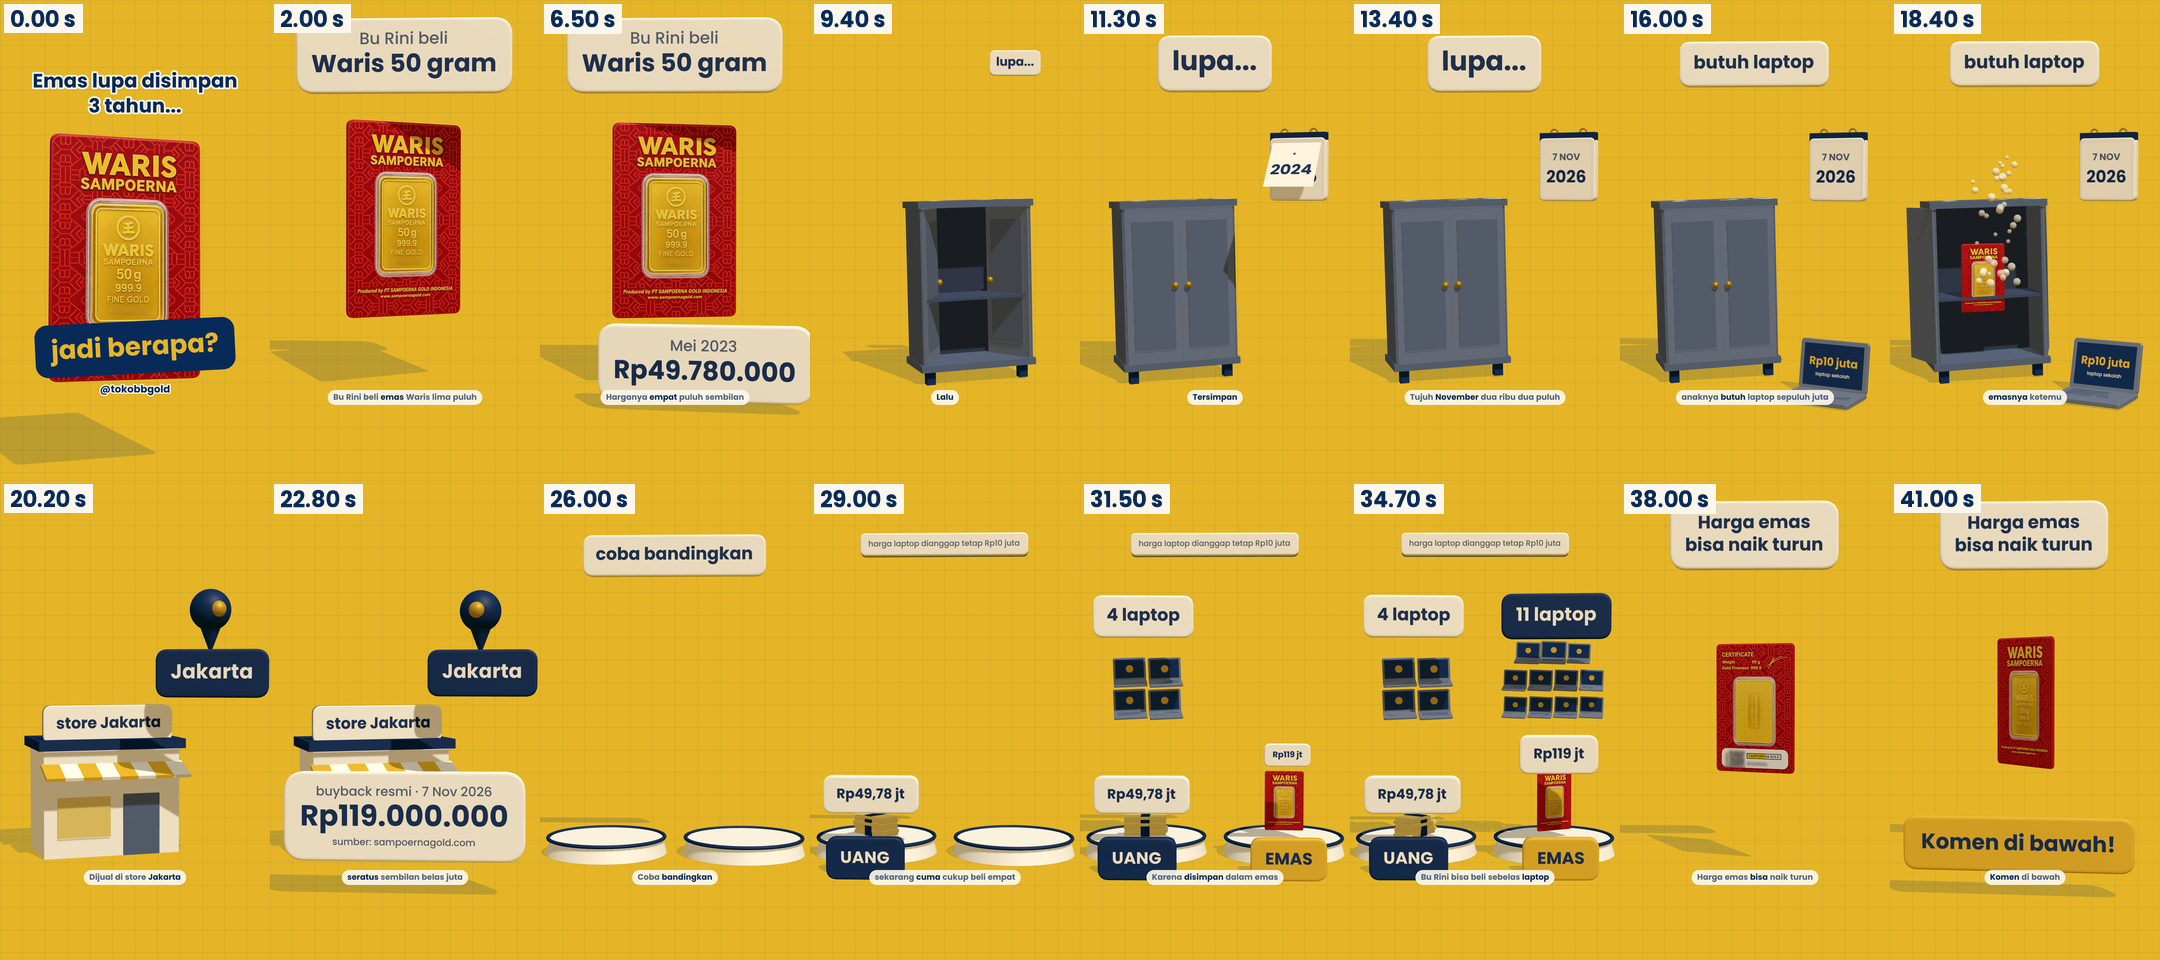
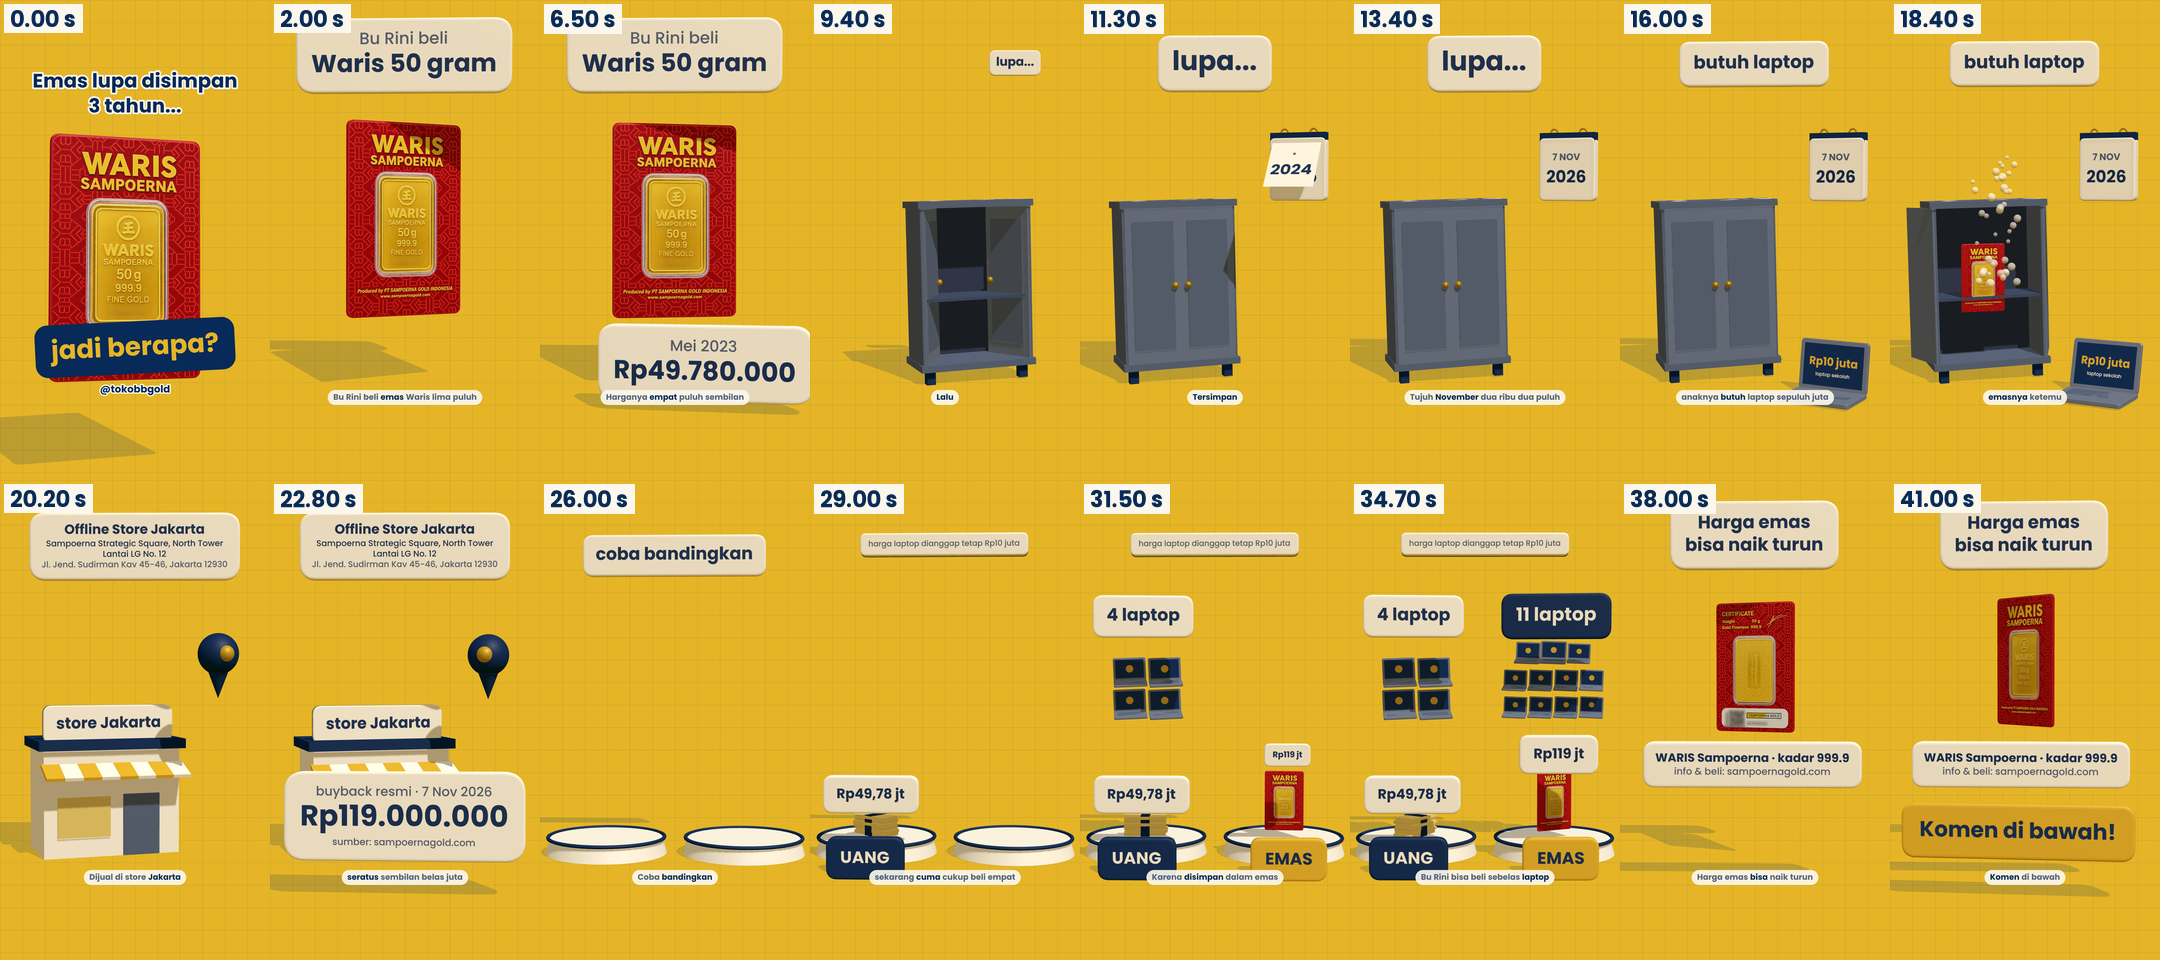
Video Bu Rini: alamat lengkap Offline Store Jakarta dan info resmi WARIS dari sampoernagold.com
Claude-Session: https://claude.ai/code/session_01A66KqLmuH4SbiCwxB5x5ub

diff --git a/bbgold-reels/emas-rini/tiga.js b/bbgold-reels/emas-rini/tiga.js
@@ -208,6 +208,8 @@ export async function boot(dataPath) {
     butuh: plate([["butuh laptop", 74, B]]),
     ketemu: plate([["ketemu!", 110, K]], { bg: B }),
     jakarta: plate([["Jakarta", 80, K]], { bg: B }),
+    alamat: plate([["Offline Store Jakarta", 54, B], ["Sampoerna Strategic Square, North Tower", 34, B, 500], ["Lantai LG No. 12", 34, B, 500], ["Jl. Jend. Sudirman Kav 45-46, Jakarta 12930", 34, A, 500]], { pad: 40 }),
+    info: plate([["WARIS Sampoerna · kadar 999.9", 44, B], ["info & beli: sampoernagold.com", 36, A, 500]], { pad: 36 }),
     buyback: plate([["buyback resmi · 7 Nov 2026", 46, A, 500], ["Rp119.000.000", 104, B], ["sumber: sampoernagold.com", 34, A, 500]]),
     banding: plate([["coba bandingkan", 80, B]]),
     lUang: plate([["UANG", 70, K]], { bg: B }), lEmas: plate([["EMAS", 70, B]], { bg: M }),
@@ -302,8 +304,9 @@ export async function boot(dataPath) {
     show(P.ketemu, t, T.ketemu, T.dijual - 0.3); place(P.ketemu, xl - 0.2, TOP, 0.3);
     // --- area jual ---
     show(toko, t, T.dijual - 0.4, T.coba - 0.3, 0.6, 0.72); place(toko, xj - 0.45, -0.88, -0.9, 0.3);
-    show(pin, t, T.dijual + 0.3, T.coba - 0.3, 0.45, 0.62); place(pin, xj + 0.95, 1.55 + Math.abs(Math.sin(t * 3)) * 0.12, 0.2, Math.sin(t) * 0.4);
-    show(P.jakarta, t, T.dijual + 0.5, T.coba - 0.3); place(P.jakarta, xj + 0.95, 0.85, 0.5, -0.15);
+    show(pin, t, T.dijual + 0.3, T.coba - 0.3, 0.45, 0.62); place(pin, xj + 1.05, 1.0 + Math.abs(Math.sin(t * 3)) * 0.12, 0.2, Math.sin(t) * 0.4);
+    P.jakarta.visible = false;
+    show(P.alamat, t, T.dijual + 0.2, T.coba - 0.3); place(P.alamat, xj, TOP - 0.05, 0.4);
     show(P.buyback, t, T.buyback, T.coba - 0.3); place(P.buyback, xj, -0.7, 1.9, -0.06, -0.05);
     // --- area banding ---
     const UX = xc - 0.95, EX = xc + 0.95;
@@ -323,10 +326,11 @@ export async function boot(dataPath) {
     show(P.n11, t, T.sebelas + 0.6, T.hargaEmas - 0.3); place(P.n11, EX, 1.65, 0.3, -0.1);
     show(P.sisa, t, T.sisa, T.hargaEmas - 0.3); place(P.sisa, xc, TOP, 0.4);
     // --- area akhir ---
-    show(kartuAkhir, t, T.hargaEmas - 0.2); place(kartuAkhir, xa, 0.45 + Math.sin(t * 1.6) * 0.06, 0, t * 0.9);
+    show(kartuAkhir, t, T.hargaEmas - 0.2, 1e9, 0.45, 1); place(kartuAkhir, xa, 0.95 + Math.sin(t * 1.6) * 0.06, 0, t * 0.9);
+    show(P.info, t, T.hargaEmas + 0.4, 1e9); place(P.info, xa, -0.2, 1.0);
     show(P.naikTurun, t, T.hargaEmas, 1e9); place(P.naikTurun, xa, TOP, 0.3);
-    show(P.tanya, t, T.kamu, T.komen - 0.1); place(P.tanya, xa, -1.0, 1.5, 0.08, -0.04);
-    show(P.komen, t, T.komen, 1e9); place(P.komen, xa, -1.0, 1.5, -0.06);
+    show(P.tanya, t, T.kamu, T.komen - 0.1); place(P.tanya, xa, -0.9, 1.6, 0.08, -0.04);
+    show(P.komen, t, T.komen, 1e9); place(P.komen, xa, -0.85, 1.6, -0.06);
   }
 
   // ---- Lapisan 2D: transkrip kecil + cover + outro ----
